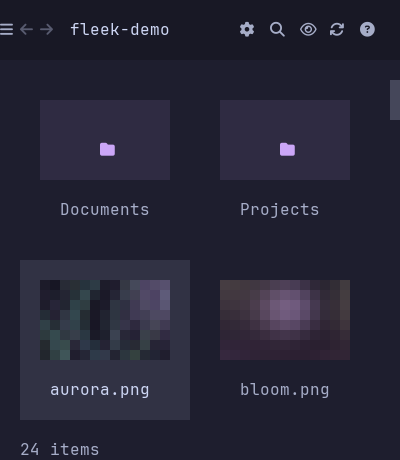
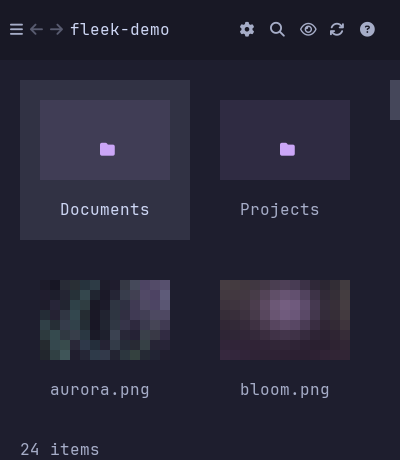
Pad the mobile sidebar toggle

diff --git a/view.go b/view.go
@@ -150,15 +150,19 @@ func (m *model) drawTopbar(canvas *Canvas) {
 		if m.sidebarOpen {
 			color = colAccent
 		}
-		canvas.text(0, y, 1, iconSidebar, color, colTop)
-		m.topHits = append(m.topHits, topHit{0, 0, "sidebar"})
+		canvas.text(1, y, 1, iconSidebar, color, colTop)
+		m.topHits = append(m.topHits, topHit{1, 1, "sidebar"})
+	}
+	backX, forwardX := 2, 4
+	if m.mobile() {
+		backX, forwardX = 3, 5
 	}
 	if !compactSearch {
-		canvas.text(2, y, 1, iconBack, back, colTop)
-		canvas.text(4, y, 1, iconForward, forward, colTop)
+		canvas.text(backX, y, 1, iconBack, back, colTop)
+		canvas.text(forwardX, y, 1, iconForward, forward, colTop)
 		m.topHits = append(m.topHits,
-			topHit{2, 2, "back"},
-			topHit{4, 4, "forward"},
+			topHit{backX, backX, "back"},
+			topHit{forwardX, forwardX, "forward"},
 		)
 	}
 

diff --git a/main.go b/main.go
@@ -9,7 +9,7 @@ import (
 	"github.com/charmbracelet/colorprofile"
 )
 
-const version = "0.8.2"
+const version = "0.8.3"
 
 func main() {
 	flag.Usage = func() {
